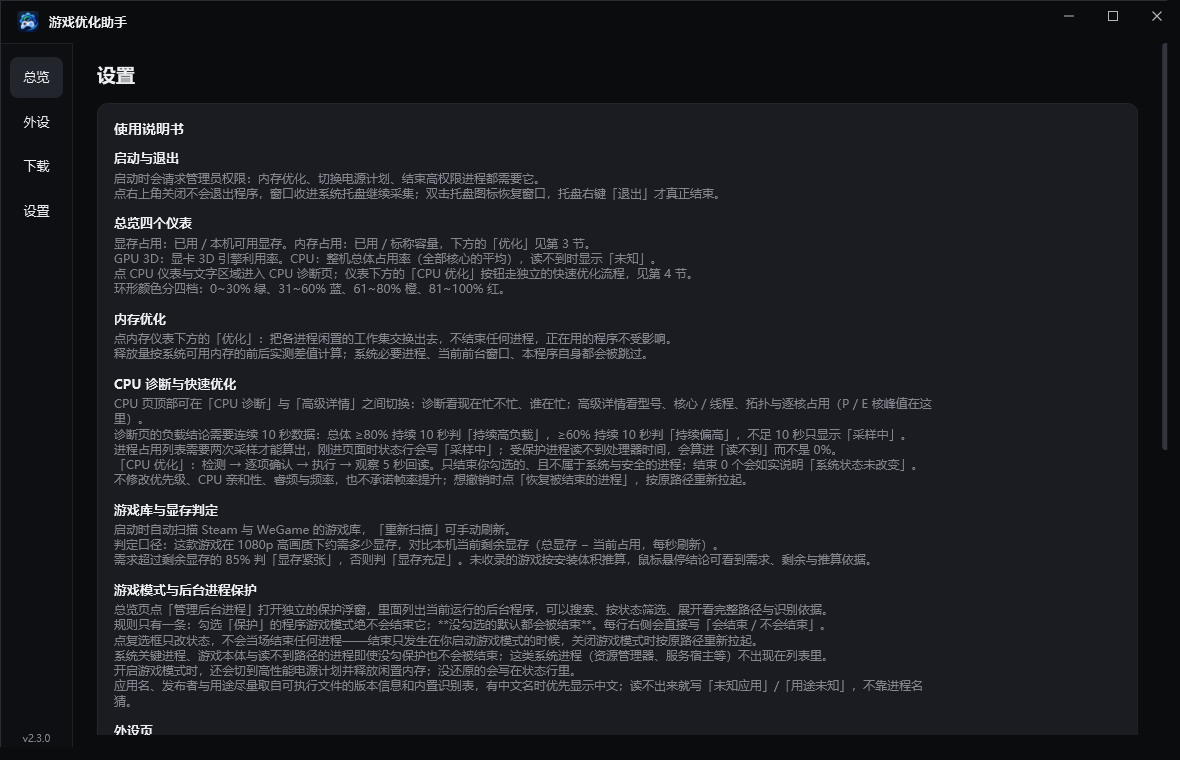
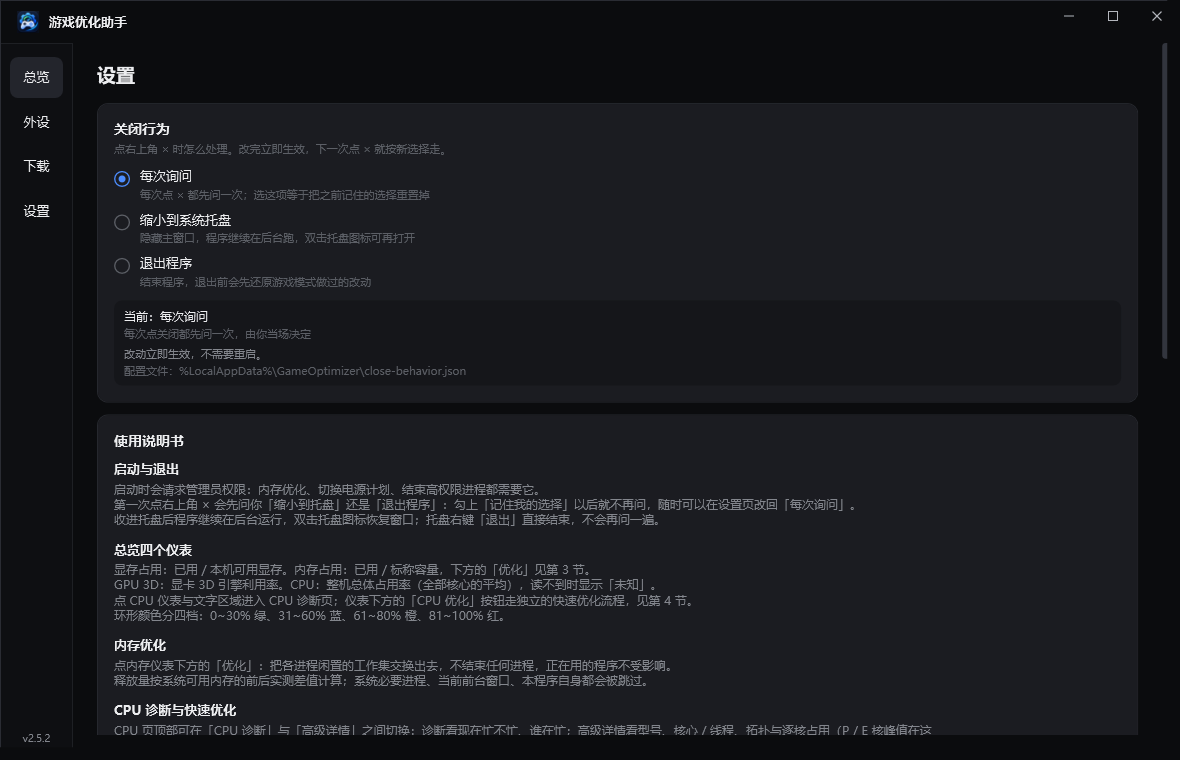
docs: 更新界面截图与 README 数据，补齐两个弹窗截图
- 重新离屏渲染 6 张页面截图（v2.5.2 界面，设置页含「关闭行为」卡片），
  新增 restore.png / close.png 两张弹窗截图并在 README 引用
- 设置页配置路径在截图模式下显示真实默认位置，不再把 %TEMP%\go-render-*.json 拍进公开仓库
  （与 BackgroundConfigPath 同一处理，补一条接线守卫）
- README 工程概况与文档里的用例数、提交数、代码量按实际更新

Changed region(s): [[0.0915, 0.1513, 0.7932, 0.9684], [0.9763, 0.4842, 1.0, 0.575]]

diff --git a/tests/GameOptimizer.Tests/CloseBehaviorWiringTests.cs b/tests/GameOptimizer.Tests/CloseBehaviorWiringTests.cs
@@ -19,6 +19,8 @@ public class CloseBehaviorWiringTests
         Read("src", "GameOptimizer.App", "ViewModels", "CloseBehaviorPromptViewModel.cs");
     private static string PromptXaml => Read("src", "GameOptimizer.App", "Views", "CloseBehaviorWindow.xaml");
     private static string MainXaml => Read("src", "GameOptimizer.App", "Views", "MainWindow.xaml");
+    private static string SettingsViewModelCode =>
+        Read("src", "GameOptimizer.App", "ViewModels", "CloseBehaviorSettingsViewModel.cs");
 
     [Fact]
     public void 关闭事件必须按三种结论分流()
@@ -89,6 +91,15 @@ public class CloseBehaviorWiringTests
         MainXaml.Should().Contain("{Binding CloseBehaviorSettings.IsAskSelected");
         MainXaml.Should().Contain("{Binding CloseBehaviorSettings.IsMinimizeSelected");
         MainXaml.Should().Contain("{Binding CloseBehaviorSettings.IsExitSelected");
+    }
+
+    [Fact]
+    public void 截图模式下的配置路径不能露出临时文件()
+    {
+        // 渲染进程写的是 %TEMP%\go-render-close-behavior.json，而设置页截图要进公开仓库：
+        // 图上必须显示真实默认位置，不能把渲染痕迹拍进去（与 BackgroundConfigPath 同一处理）。
+        SettingsViewModelCode.Should().Contain("MainViewModel.ScreenshotMode");
+        SettingsViewModelCode.Should().Contain(@"%LocalAppData%\GameOptimizer\close-behavior.json");
     }
 
     private static string RepoRoot()

diff --git a/src/GameOptimizer.App/ViewModels/CloseBehaviorSettingsViewModel.cs b/src/GameOptimizer.App/ViewModels/CloseBehaviorSettingsViewModel.cs
@@ -67,8 +67,16 @@ public sealed class CloseBehaviorSettingsViewModel : INotifyPropertyChanged
     /// <summary>当前行为的后果说明。</summary>
     public string CurrentExplain => CloseBehaviorPolicy.Explain(_service.SavedBehavior);
 
-    /// <summary>配置文件位置：用户要备份或手工改的时候知道去哪找。</summary>
-    public string ConfigPathText => $"配置文件：{PathRedactor.Redact(_service.FilePath)}";
+    /// <summary>
+    /// 配置文件位置：用户要备份或手工改的时候知道去哪找。
+    ///
+    /// 截图模式下换成真实默认位置——渲染进程读写的是一份临时文件，
+    /// 而这些图要进公开仓库，不能把 `Temp\go-render-close-behavior.json` 这种渲染痕迹带上
+    /// （与 <c>MainViewModel.BackgroundConfigPath</c> 同一处理）。
+    /// </summary>
+    public string ConfigPathText => "配置文件：" + (MainViewModel.ScreenshotMode
+        ? @"%LocalAppData%\GameOptimizer\close-behavior.json"
+        : PathRedactor.Redact(_service.FilePath));
 
     /// <summary>保存结果 / 读盘提示。写盘失败必须在这里说清楚。</summary>
     public string StatusText

diff --git a/README.md b/README.md
@@ -84,6 +84,15 @@ pwsh -File installer\build-installer.ps1        # 版本号取自 Directory.Buil
 
 ![设置](docs/images/settings.png)
 
+**点 × 的处理方式**（v2.5.0）：缩小到托盘 / 退出程序 / 取消三选一，可勾「记住我的选择」。
+
+![关闭行为选择](docs/images/close.png)
+
+**关闭游戏模式后选择恢复哪些进程**（v2.4.1）：逐项勾选 → 逐项启动 → 启动后回读确认。
+启动时**不再**弹窗追问上一次没恢复的进程，改由首页「恢复遗留进程」手动打开这个窗口。
+
+![恢复选择](docs/images/restore.png)
+
 </details>
 
 ## 能做什么
@@ -96,6 +105,7 @@ pwsh -File installer\build-installer.ps1        # 版本号取自 Directory.Buil
 | 自动扫描 Steam 与 WeGame 游戏库 | ✅ 剔除壁纸等非游戏 |
 | 按游戏判断显存是否充足 | ✅ 按每款游戏的正常需求对比**本机实时剩余显存**，每秒重算 |
 | 游戏模式（电源 / 结束后台 / 内存） | ✅ 全部可回滚；必要进程自动保护；**关闭后由你勾选要恢复哪些进程**（逐项启动 + 启动后确认） |
+| **启动不再追问遗留恢复** | ✅ 启动时不再弹「还有 N 个进程没有恢复」；记录保留、不自动拉起，首页「恢复遗留进程（N）」自己点。崩溃留下的电源计划仍会直接还原（失败进 `restore-log.txt` + 状态行） |
 | **CPU 诊断页** | ✅ 点 CPU 仪表进入：负载结论 + 当前占用 + 30 秒平均 + 趋势图 + 高占用进程（含口径与「读不到」计数）+ 采样完整性 |
 | **CPU 快速优化** | ✅ 检测 → 逐项确认 → 结束所选应用 → 5 秒回读对比；可回滚；不碰系统 / 安全软件，不改优先级与频率，不承诺帧率 |
 | **高级详情** | ✅ P/E/全局/总 CPU 四项汇总 + 核心 / 线程 + 拓扑 + 按大小核分组的每核条形图；系统压力（磁盘吞吐）也在这里 |
@@ -145,10 +155,10 @@ dotnet run --project src/GameOptimizer.App
 | 项 | 数据 |
 |---|---|
 | 开发周期 | 2026-10-19 ~ 10-22，**4 天完成主体功能**（36 次提交） |
-| 提交与版本 | 累计 **69 次提交**、**16 个版本 tag**（v0.5.0 → v2.5.0） |
-| 代码量 | C# **30,388 行 / 162 个文件**（src + tests，不含生成代码）+ XAML 2,574 行 / 6 个文件 |
-| 测试 | **880 个 xUnit 用例**，只引用 `GameOptimizer.Core`，不引入 UI 依赖；少量用例会读真实系统（进程列表 / 电源计划 / 性能计数器）做一致性校验 |
-| 持续集成 | GitHub Actions（`windows-latest`）：推送 `main` 与打 `v*` tag 时还原 → Release 构建 → 跑全量用例，失败会留下 trx 结果 |
+| 提交与版本 | 累计 **78 次提交**、**18 个版本 tag**（v0.5.0 → v2.5.2；可下载的最近发布仍是 v2.5.0） |
+| 代码量 | C# **31,411 行 / 167 个文件**（src + tests，不含生成代码）+ XAML 2,585 行 / 6 个文件 |
+| 测试 | **926 个 xUnit 用例**，只引用 `GameOptimizer.Core`，不引入 UI 依赖；少量用例会读真实系统（进程列表 / 电源计划 / 性能计数器）做一致性校验 |
+| 持续集成 | GitHub Actions（`windows-latest`）：推送 `main` 与打 `v*` tag 时还原 → Release 构建 → 跑全量用例，失败会把用例名写进 Actions 摘要 |
 | 分层 | `Core` 无 UI 依赖、可单测；`App` 只做 WPF 呈现与交互 |
 
 ## 怎么做的（AI 协作说明）
@@ -191,11 +201,12 @@ publish/                   发布产物（已 gitignore，不入库）
 ### 文档里的截图怎么来的
 
 `GameOptimizer.App.dll --render <输出目录> [页面名,...]` 会离屏渲染真实 XAML 并输出 PNG，
-页面名可取 `home` / `peripherals` / `download` / `settings` / `cpu` / `background`。
+页面名可取 `home` / `peripherals` / `download` / `settings` / `cpu` / `background` / `restore` / `close`。
 它不建托盘、不碰游戏模式，下载页用独立的临时任务表，保护名单也写临时文件——
 所以截图里不会带上任何一台机器上的真实下载记录或勾选状态。
 
-截图会进公开仓库，因此渲染时还做了两件事：**路径里的用户目录替换成 `%USERPROFILE%`**，
+截图会进公开仓库，因此渲染时还做了三件事：**路径里的用户目录替换成 `%USERPROFILE%`**、
+设置页里的配置文件位置换成真实默认路径（渲染写的是 `%TEMP%\go-render-*.json`，不能带进图里），
 提权状态按「已提权」处理（渲染进程本身不提权，否则每张图都会多一条黄色警告）。
 CPU 诊断页会先攒满 30 秒采样再截，否则趋势图只是一张空折线。
 
@@ -205,7 +216,7 @@ CPU 诊断页会先攒满 30 秒采样再截，否则趋势图只是一张空折
 dotnet test
 ```
 
-本机实测：**760 个用例全部通过，5 秒**，进程正常退出（`-c Release`）。
+本机实测：**926 个用例全部通过，约 5 秒**，进程正常退出（`-c Release`）。
 
 > 其中一支用例会去本机真实 HID 设备读 VXE 鼠标电量。这类设备 I/O **一律带超时**
 > （见下面的「不可观测的不报结论」），所以没有外设时它会很快返回「未知」而不是挂住——

diff --git a/docs/00-项目总览.md b/docs/00-项目总览.md
@@ -42,7 +42,7 @@ Windows 桌面应用「游戏优化助手」：把**显存水位、内存、GPU 
 | 系统改动 | P/Invoke `SetProcessWorkingSetSizeEx` / `EmptyWorkingSet` | 释放工作集，不结束进程 |
 | 权限 | `app.manifest` 声明 `requireAdministrator` | 另有运行时自我提权兜底 |
 | 单实例 | 命名互斥体 + 广播窗口消息 | `Local\` 会话级 |
-| 测试 | **xUnit 2.5.3 + FluentAssertions 6.12.2** | 836 例，只引用 Core |
+| 测试 | **xUnit 2.5.3 + FluentAssertions 6.12.2** | 926 例，只引用 Core |
 | 发布 | `dotnet publish -r win-x64 --self-contained`（单文件） | 产物在 `publish/win-x64/`，附 `SHA256SUMS.txt` 与 `RELEASE_NOTES.md` |
 
 ---
@@ -51,7 +51,7 @@ Windows 桌面应用「游戏优化助手」：把**显存水位、内存、GPU 
 
 ```
 GameOptimizer.sln
-├── src/GameOptimizer.Core/        纯逻辑，可脱离界面单测（836 例全部打在这）
+├── src/GameOptimizer.Core/        纯逻辑，可脱离界面单测（926 例全部打在这）
 │   ├── Collection/                采集：PDH、DXGI、内存、大小核拓扑、游戏进程、进程 CPU 占用
 │   ├── Analysis/                  判定：占用率配色、仪表角度、显存判定、CPU 详情、CPU 诊断规则与优化建议
 │   ├── Navigation/                PageRouter —— 页面可见性的唯一真源
@@ -339,7 +339,7 @@ OnStartup
 
 ```powershell
 dotnet build                      # 构建
-dotnet test                       # 836 例，必须全绿
+dotnet test                       # 926 例，必须全绿
 dotnet run --project src/GameOptimizer.App
 dotnet build src/GameOptimizer.App/GameOptimizer.App.csproj -p:OutputPath=<临时目录>   # 产物被占用时用来验证编译
 ```

diff --git a/docs/01-架构与模块.md b/docs/01-架构与模块.md
@@ -18,7 +18,7 @@ GameOptimizer.sln
 │   ├── OffscreenRenderer.cs      离屏渲染成 PNG（仅调试用，`--render <目录>`）
 │   ├── ViewModels/               MainViewModel（全部界面状态）、AppIconCache（应用图标）
 │   └── Views/                    MainWindow、PercentGauge、BatteryRing、DownloadPage、BackgroundWhitelistWindow
-├── tests/GameOptimizer.Tests     xUnit 用例（836 个）
+├── tests/GameOptimizer.Tests     xUnit 用例（926 个）
 └── tools/                        运维脚本（PresentMon 链路验证）
 ```
 
